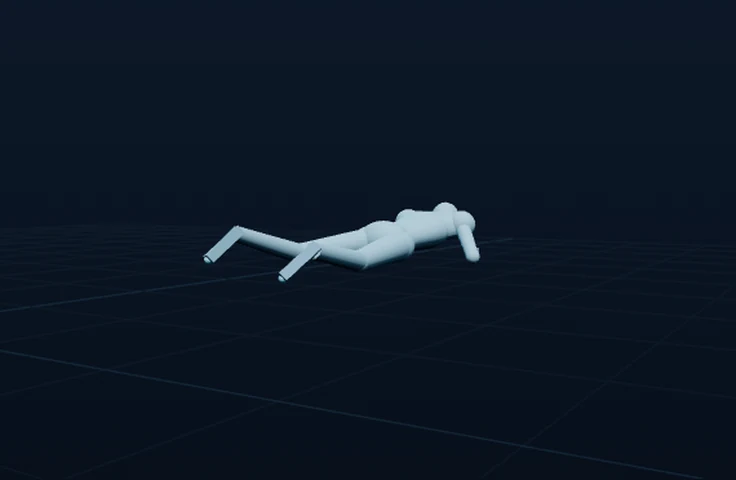
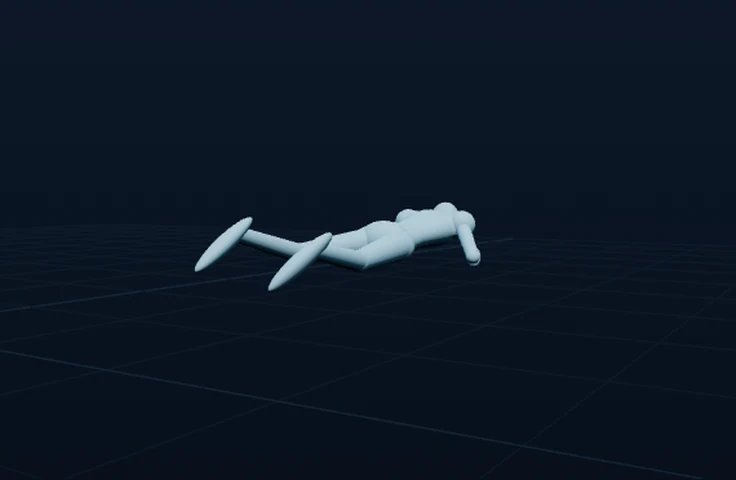
motion library: close the torso, round hands and feet, restore the Robot demos link

Changed region(s): [[0.3438, 0.4688, 0.4688, 0.625], [0.25, 0.4375, 0.3438, 0.5625], [0.625, 0.5312, 0.6562, 0.5625]]

diff --git a/motion-library/viewer.js b/motion-library/viewer.js
@@ -40,7 +40,7 @@ const BODY = [
 const BALLS = [['upperarm_l', 0.083], ['upperarm_r', 0.083], ['thigh_l', 0.090], ['thigh_r', 0.090],
                ['forearm_l', 0.040], ['forearm_r', 0.040], ['shin_l', 0.056], ['shin_r', 0.056],
                ['hand_l', 0.030], ['hand_r', 0.030]];
-const TORSO_PROFILE = [[0.150, 0.00], [0.138, 0.16], [0.126, 0.34], [0.136, 0.52], [0.156, 0.72], [0.172, 0.90], [0.168, 1.00]];
+const TORSO_PROFILE = [[0.000, 0.00], [0.148, 0.03], [0.136, 0.18], [0.124, 0.36], [0.138, 0.56], [0.160, 0.74], [0.176, 0.88], [0.150, 0.96], [0.000, 1.00]];
 
 function buildSkeleton(clip) {
   const bones = clip.nodes.map((b) => {
@@ -77,7 +77,7 @@ function buildSkeleton(clip) {
   // torso: one lathed silhouette from pelvis to chest, so there is a waist
   if (byName.hips && byName.chest) {
     const lathe = new THREE.LatheGeometry(TORSO_PROFILE.map(([r, y]) => new THREE.Vector2(r, y)), 24);
-    add({ kind: 'torso', mesh: new THREE.Mesh(lathe, matBody), a: byName.hips, b: byName.chest });
+    add({ kind: 'torso', mesh: new THREE.Mesh(lathe, matBody), a: byName.hips, b: (byName.neck || byName.chest) });
   }
 
   for (const [pn, cn, rp, rc, squash] of BODY) {
@@ -105,8 +105,8 @@ function buildSkeleton(clip) {
     add({ kind: 'pelvis', mesh: new THREE.Mesh(ballGeo, matBody), at: byName.hips });
   }
   for (const s of ['l', 'r']) {
-    if (byName['hand_' + s]) add({ kind: 'hand', mesh: new THREE.Mesh(boxGeo, matBodyDim), at: byName['hand_' + s] });
-    if (byName['foot_' + s] && byName['toe_' + s]) add({ kind: 'foot', mesh: new THREE.Mesh(boxGeo, matBodyDim), a: byName['foot_' + s], b: byName['toe_' + s] });
+    if (byName['hand_' + s]) add({ kind: 'hand', mesh: new THREE.Mesh(ballGeo, matBody), at: byName['hand_' + s] });
+    if (byName['foot_' + s] && byName['toe_' + s]) add({ kind: 'foot', mesh: new THREE.Mesh(ballGeo, matBody), a: byName['foot_' + s], b: byName['toe_' + s] });
   }
 
   // joint pins: the same 23 joints, kept for the "joints" reading of the data
@@ -180,8 +180,8 @@ function updateRig() {
     }
     if (part.kind === 'hand') {
       part.at.getWorldPosition(_a);
-      mesh.position.copy(_a);
-      mesh.scale.set(0.052 * S, 0.075 * S, 0.028 * S);
+      mesh.position.copy(_a).addScaledVector(_up, -0.018 * S);
+      mesh.scale.set(0.042 * S, 0.062 * S, 0.030 * S);
       continue;
     }
     if (part.kind === 'bar') {
@@ -207,9 +207,10 @@ function updateRig() {
     _d.subVectors(_b, _a);
     const len = Math.max(_d.length(), 0.02);
     if (part.kind === 'foot') {
-      mesh.position.copy(_a).addScaledVector(_d.clone().normalize(), len * 0.45);
+      // a soft wedge: heel thicker than toe, sole flat-ish
+      mesh.position.copy(_a).addScaledVector(_d.clone().normalize(), len * 0.42);
       mesh.quaternion.setFromUnitVectors(_up, _d.clone().normalize());
-      mesh.scale.set(0.075 * S, len * 1.15, 0.048 * S);
+      mesh.scale.set(0.062 * S, len * 1.05, 0.042 * S);
       continue;
     }
     mesh.position.addVectors(_a, _b).multiplyScalar(0.5);

diff --git a/motion-library/library.css b/motion-library/library.css
@@ -285,3 +285,14 @@ footer .wrap { display: flex; flex-wrap: wrap; gap: 14px; justify-content: space
   html { scroll-behavior: auto; }
   * { transition: none !important; }
 }
+
+/* Human motion / Robot demos switcher */
+.library-switch { display: flex; gap: 6px; flex-wrap: wrap; }
+.library-switch a {
+  display: inline-flex; align-items: center; height: 32px; padding: 0 14px;
+  border: 1px solid rgba(74, 168, 200, .20); border-radius: 999px;
+  font-size: 12.5px; color: var(--grey-1); text-decoration: none;
+  transition: color .2s, background .2s, border-color .2s;
+}
+.library-switch a:hover { color: var(--white); border-color: rgba(74, 168, 200, .45); }
+.library-switch a[aria-current="page"] { color: var(--white); border-color: var(--accent); background: var(--accent-glow); }

diff --git a/motion-library/index.html b/motion-library/index.html
@@ -42,6 +42,13 @@
 </nav>
 
 <main class="page">
+  <section class="section-switch wrap">
+    <div class="library-switch">
+      <a href="/motion-library/" aria-current="page">Human motion</a>
+      <a href="/motion-library/robots/">Robot demos</a>
+    </div>
+  </section>
+
   <section class="hero wrap">
     <div class="eyebrow">Motion Library</div>
     <h1>Human motion, ready to <em>run on a robot</em></h1>

diff --git a/docs/WORKLOG.md b/docs/WORKLOG.md
@@ -271,3 +271,6 @@ Lareesa: "can you also make sure it's always SEO and GEO optimized?"
 - Verified locally: 28 body parts + 23 joint pins per clip, thumbs reviewed on a contact sheet, stage checked on wave and stair_climb.
 
 - Shoulder pass: a shoulder span across the two upper-arm joints, heavier clavicles (98 mm to 70 mm) and 83 mm deltoid balls, so the torso flows into both arms with no step while the raised arm stays clean. 26 thumbnails re-rendered again at 45 % of each clip.
+
+- Same day, second pass: torso lathe is capped at both ends and now runs hips to the neck joint, so the chest reaches the shoulders with no open shell; hands and feet are ellipsoids instead of boxes; 26 thumbnails re-rendered.
+- Restored the Human motion / Robot demos switcher on `/motion-library/`: the page that serves the domain is the static copy in this repo, which never had the link that lives in the console copy (`/motion-library/robots/` is served by the console service and stayed live throughout).
